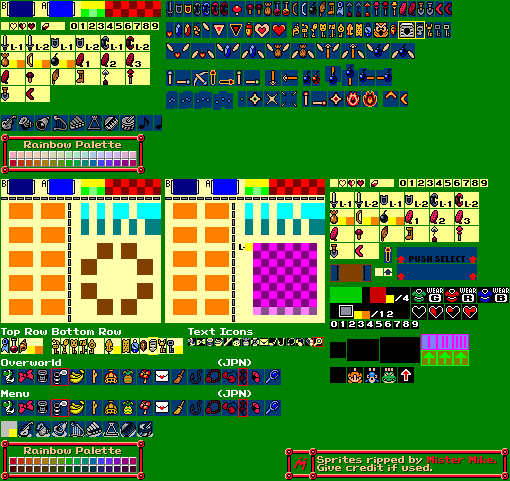
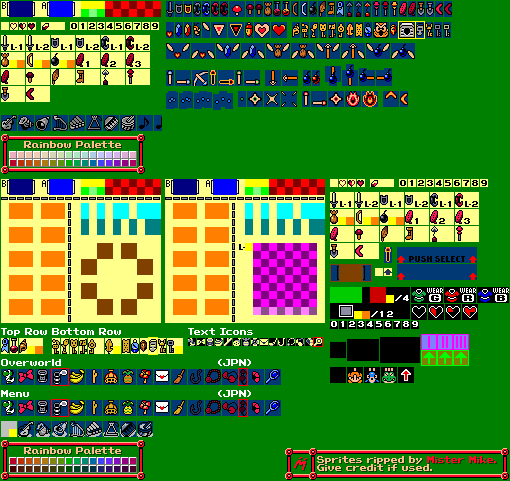
money representation

Changed region(s): [[0.0, 0.3742, 0.6471, 0.7484], [0.7353, 0.5301, 0.7647, 0.5925]]

diff --git a/UI.js b/UI.js
@@ -74,7 +74,7 @@ class UI {
         this.player.inventory.drawUI(context);
 
         this.healthBar.draw(context, this.player.stats.getHealth().maxHealth, this.player.stats.getHealth().health, UIWIDTH / 10 * 6.5, PLAYSCREENHEIGHT);
-        // this.moneyDisplay.draw(context);
+        this.moneyDisplay.draw(context, this.player.inventory.money);
     }
 
 }
@@ -124,16 +124,51 @@ class HealthBar {
 }
 
 class MoneyDisplay {
-    constructor() {
-        this.money = 0;
-        this.width = 100;
-        this.height = 20;
+    constructor(x=UIWIDTH/10*5,y=UIHEIGHT*8) {
+        this.texture_numbers = textures.menu; // 32x8 texture with numbers
+        this.texture_gem = textures.menu; // 32x8 texture with gem
+        this.size = transformPixels(8, 8, context);
+        this.pos_gem = transform(x, y, context); // Position to draw the money
+        this.pos = transform(x, y+UIHEIGHT/2, context); // Position to draw the money
     }
 
-    draw(context) {
-        // Draw the rectangle
-        context.fillStyle = "green";
-        context.fillRect(0, 20, this.width, this.height);
+    draw(context, money=12) {
+        // Clamp money between 0 and 999
+        money = Math.max(0, Math.min(999, Math.floor(money)));
+
+        // Split money into hundreds, tens, units
+        let digits = [
+            Math.floor(money / 100),
+            Math.floor((money % 100) / 10),
+            money % 10
+        ];
+
+        // Texture info
+        const offsetX = 399;
+        const offsetY = 179;
+        const digitWidth = 8;
+        const digitHeight = 8;
+        const digitSpacing = 1; // 1px empty between digits
+
+        // Draw each digit in a 24x8 grid (3 digits)
+        for (let i = 0; i < 3; i++) {
+            let sx = offsetX + (digitWidth + digitSpacing) * digits[i];
+            let sy = offsetY;
+            let dx = i * this.size.x;
+            let dy = 0;
+
+            context.drawImage(
+                this.texture_numbers.img,
+                sx, sy, digitWidth, digitHeight,
+                this.pos.x+dx, this.pos.y+dy, this.size.x, this.size.y
+            );
+        }
+
+        context.drawImage(
+            this.texture_gem.img,
+            370, 179, digitWidth*3, digitHeight,
+            this.pos_gem.x, this.pos_gem.y, this.size.x*3, this.size.y
+        );
     }
 }
 

diff --git a/player.js b/player.js
@@ -115,6 +115,7 @@ class Inventory {
     constructor(player) {
         this.player = player;
         this.stats = player.stats;
+        this.money = 0;
         this.items = new Map(); // key: item.name, value: { item, quantity }
         this.resolution = 4;
         
@@ -129,6 +130,7 @@ class Inventory {
         this.getSlot(0, 0).select();
 
         this.healthBar = new HealthBar(); 
+        this.moneyDisplay = new MoneyDisplay(0.5,0);
 
     }
 
@@ -155,6 +157,7 @@ class Inventory {
         this.equipped.right.draw(context);
 
         this.healthBar.draw(context, this.player.stats.getHealth().maxHealth, this.player.stats.getHealth().health, UIWIDTH / 10 * 6.5, 0);
+        this.moneyDisplay.draw(context, this.money);
     }
 
     drawUI(context) {
@@ -285,7 +288,7 @@ class Player {
         this.handBoundingBox = new BoundingBox(this.center.x, this.center.y, (width)/4, (height)/4);
 
         // inventory
-        this.stats = new Stats(3, 10, 5, 5, 0.0004); // health, attack, defense, strength, speed
+        this.stats = new Stats(9, 10, 5, 5, 0.0004); // health, attack, defense, strength, speed
         this.inventory = new Inventory(this);
 
         //Audio
@@ -759,9 +762,6 @@ class Player {
             this.sprite.currentKeyframe = 0;
             this.sprite.elapsedTime = 0;
         }
-        
-
-
     }
 
     sameDirection(dir1, dir2) {

diff --git a/game.js b/game.js
@@ -12,11 +12,11 @@ var context = this.canvas.getContext("2d");
 var gamestatemanager = new GameStateManager();
 var scene = new Scene(gamestatemanager);
 gamestatemanager.pushState(scene);
-gamestatemanager.pushState(new DialogState(gamestatemanager, [
-    `${KEY_PRIMARY} is the primary button.   Press ${KEY_PRIMARY} to continue`, 
-    `Press ${KEY_DEBUBG} to activiate`, 
-    `Press ${KEY_INVENTORY} to open the inventory`,
-]));
+// gamestatemanager.pushState(new DialogState(gamestatemanager, [
+//     `${KEY_PRIMARY} is the primary button.   Press ${KEY_PRIMARY} to continue`, 
+//     `Press ${KEY_DEBUBG} to activiate`, 
+//     `Press ${KEY_INVENTORY} to open the inventory`,
+// ]));
 
 function addDialog(text) {
     gamestatemanager.pushState(new DialogState(gamestatemanager, text));
